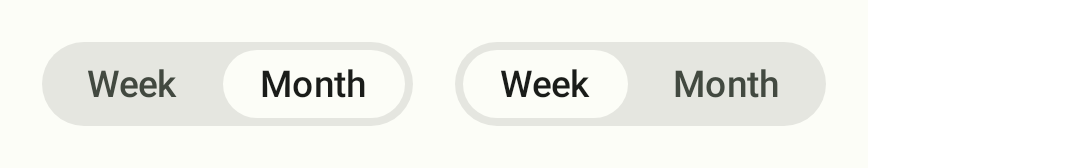
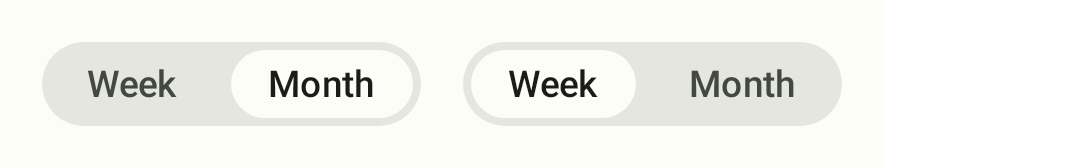
fix(uikit): make the whole period segment tappable, not just its thumb
Self-review of #410. `TrackInset` was padding on the track Row, so each segment's
`selectable` node was 26dp tall inside a 32dp control — the top and bottom 3dp of
a shape drawn as a filled pill did not respond, and neither did the band between
the two segments. A control painted as a pill is aimed at as one.

The inset is now a margin the thumb is drawn inside its slot; the slot itself
carries `selectable` at full track height, matching `SurferSelectableChip` (32dp)
and `SurferSegmentedControl` (40dp), both tappable across their whole height.
`Modifier.selectable` is foundation rather than Material, so nothing was
expanding the target back out on its own the way `SurferToggleChipButton` gets
for free from its Material button.

Changed region(s): [[0.6122, 0.4167, 0.7347, 0.5952], [0.2449, 0.4167, 0.3673, 0.5952], [0.4592, 0.4167, 0.551, 0.5952]]

diff --git a/uikit/src/commonMain/kotlin/com/georgeci/moneysurfer/uikit/components/base/SurferPeriodSwitch.kt b/uikit/src/commonMain/kotlin/com/georgeci/moneysurfer/uikit/components/base/SurferPeriodSwitch.kt
@@ -1,7 +1,6 @@
 package com.georgeci.moneysurfer.uikit.components.base
 
 import androidx.compose.foundation.background
-import androidx.compose.foundation.layout.Arrangement
 import androidx.compose.foundation.layout.Box
 import androidx.compose.foundation.layout.Row
 import androidx.compose.foundation.layout.fillMaxHeight
@@ -22,12 +21,13 @@ import androidx.compose.ui.unit.dp
 import com.georgeci.moneysurfer.uikit.preview.SurferComponentPreview
 import com.georgeci.moneysurfer.uikit.theme.AppTheme
 
-/** Track height; the thumb fills it minus [TrackInset] on every side. */
+/** Track height, and the height of each segment's tap target. */
 private val SwitchHeight = 32.dp
 
-/** Breathing room between the track edge and the thumb, and between two thumbs. */
+/** Margin the thumb is drawn inside its slot — visual only, the whole slot is tappable. */
 private val TrackInset = 3.dp
 
+/** Horizontal breathing room around a segment's label, inside the thumb. */
 private val OptionPadding = 14.dp
 
 /**
@@ -60,35 +60,46 @@ fun <T> SurferPeriodSwitch(
             .height(SwitchHeight)
             .clip(pill)
             .background(AppTheme.materialColors.surfaceContainerHighest)
-            .padding(TrackInset)
             .selectableGroup(),
-        horizontalArrangement = Arrangement.spacedBy(TrackInset),
         verticalAlignment = Alignment.CenterVertically,
     ) {
         options.forEach { option ->
             val isSelected = option == selected
             Box(
+                // The tap target is the segment's whole slot, full track height — [TrackInset] is
+                // a margin the thumb is drawn inside, not a border around what responds. A control
+                // painted as a filled pill is aimed at as one, so an inset that ate the top and
+                // bottom of it would turn the obvious target into a near miss. `Modifier.selectable`
+                // is foundation, not Material, so nothing expands the target back out for us.
                 modifier = Modifier
                     .fillMaxHeight()
                     .clip(pill)
-                    .background(if (isSelected) AppTheme.materialColors.surface else Color.Transparent)
                     // `selectable` rather than `clickable`: it publishes the selected state and the
                     // radio-button role, which is what a screen reader needs to say "1 of 2" here.
                     .selectable(selected = isSelected, onClick = { onSelect(option) })
                     .then(optionTestTag?.let { Modifier.testTag(it(option)) } ?: Modifier)
-                    .padding(horizontal = OptionPadding),
+                    .padding(TrackInset),
                 contentAlignment = Alignment.Center,
             ) {
-                Text(
-                    text = label(option),
-                    style = AppTheme.typography.labelLarge,
-                    color = if (isSelected) {
-                        AppTheme.materialColors.onSurface
-                    } else {
-                        AppTheme.materialColors.onSurfaceVariant
-                    },
-                    maxLines = 1,
-                )
+                Box(
+                    modifier = Modifier
+                        .fillMaxHeight()
+                        .clip(pill)
+                        .background(if (isSelected) AppTheme.materialColors.surface else Color.Transparent)
+                        .padding(horizontal = OptionPadding),
+                    contentAlignment = Alignment.Center,
+                ) {
+                    Text(
+                        text = label(option),
+                        style = AppTheme.typography.labelLarge,
+                        color = if (isSelected) {
+                            AppTheme.materialColors.onSurface
+                        } else {
+                            AppTheme.materialColors.onSurfaceVariant
+                        },
+                        maxLines = 1,
+                    )
+                }
             }
         }
     }
